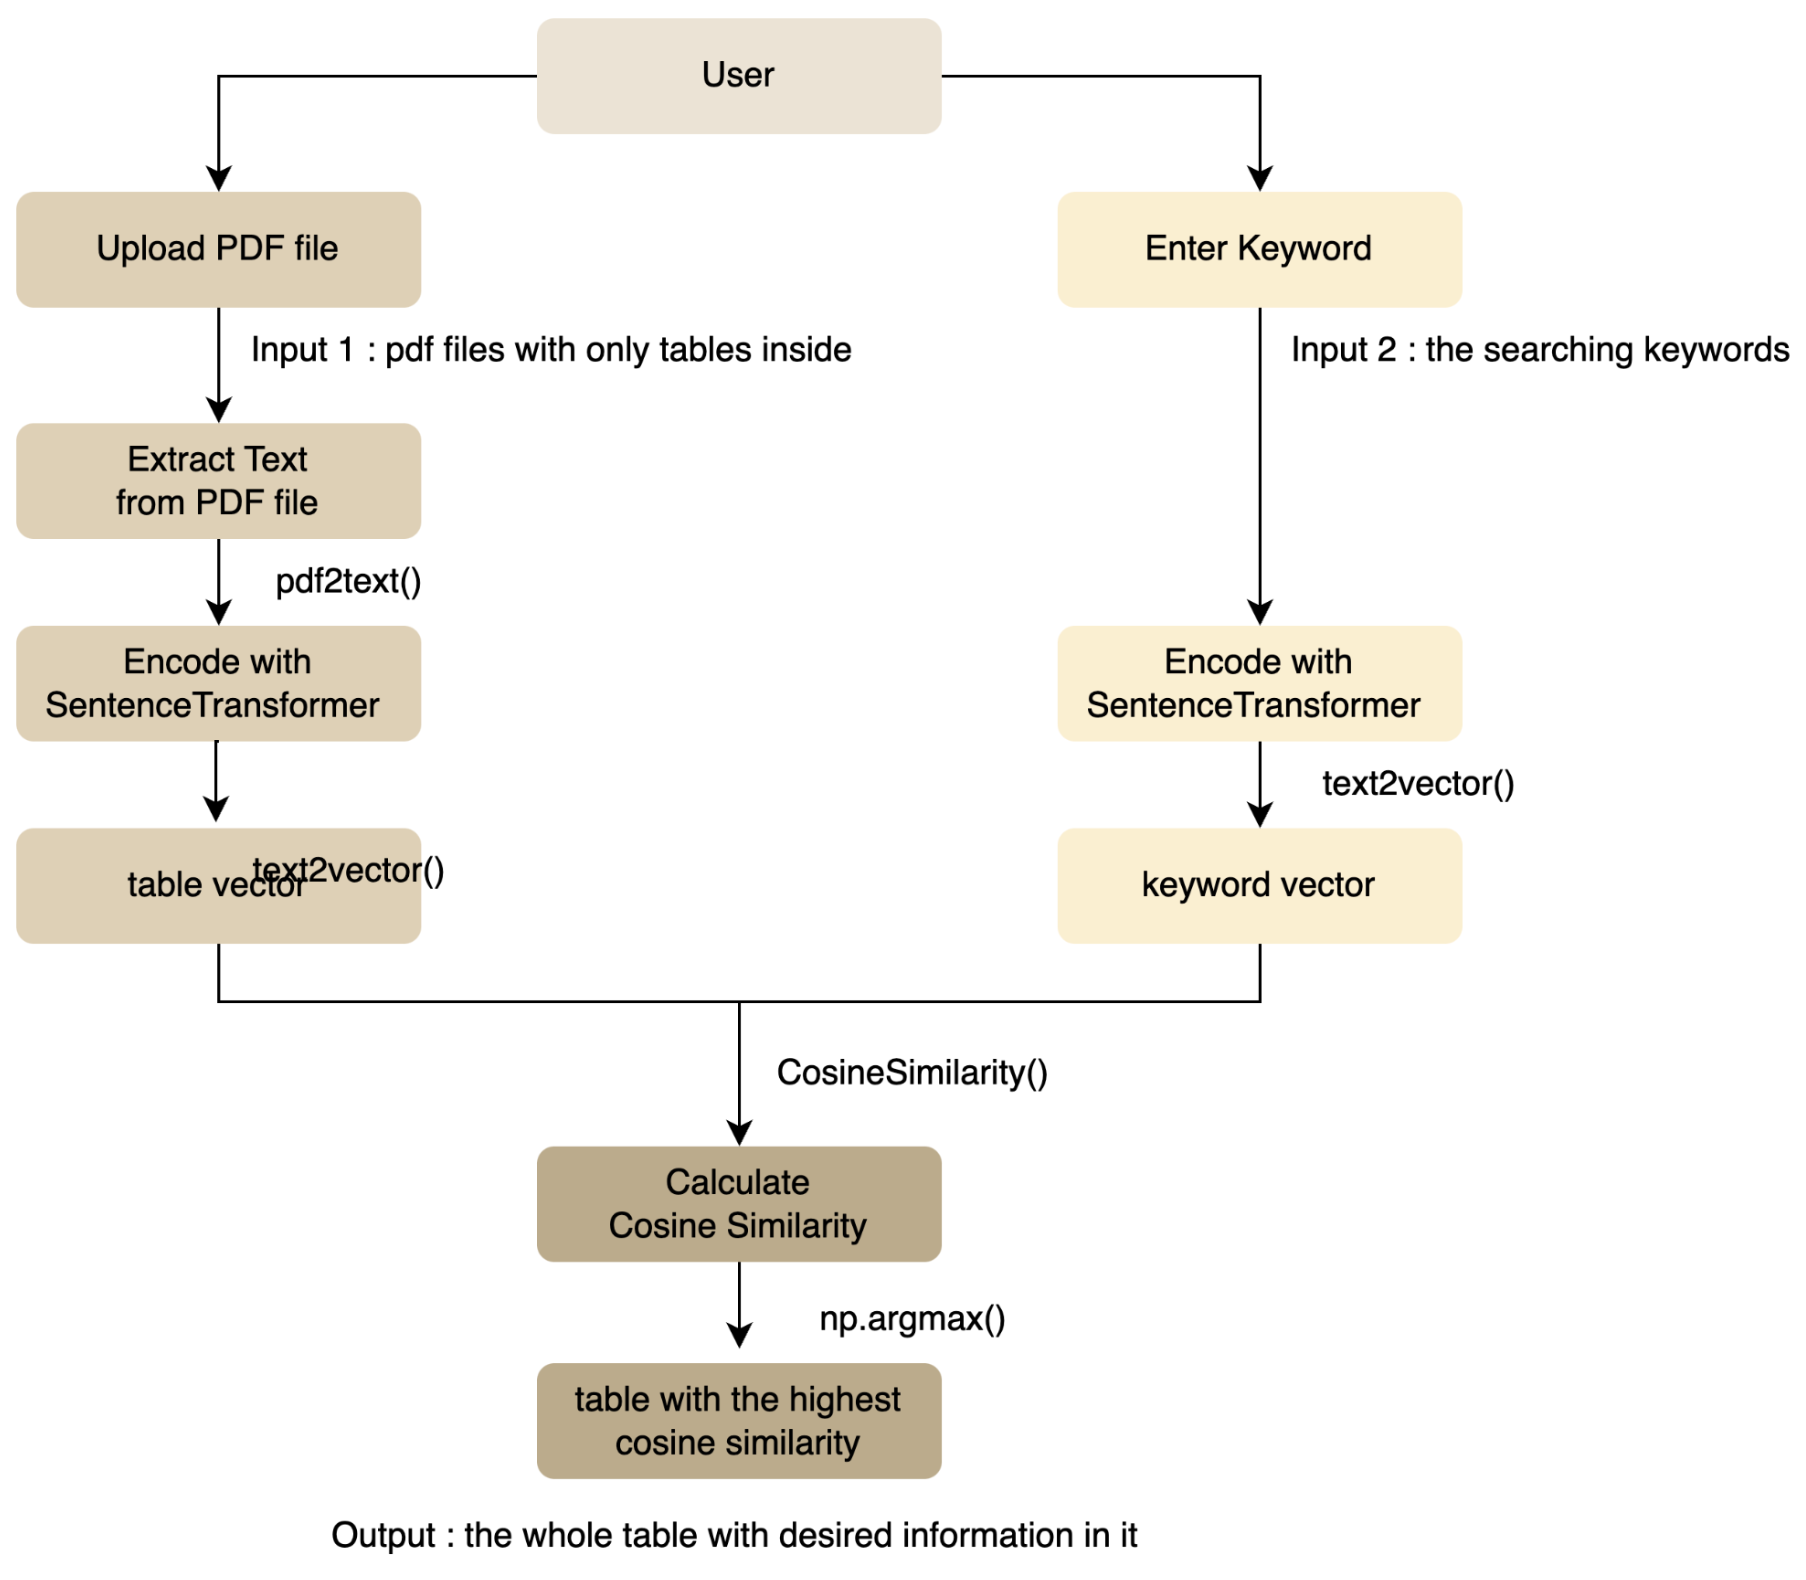
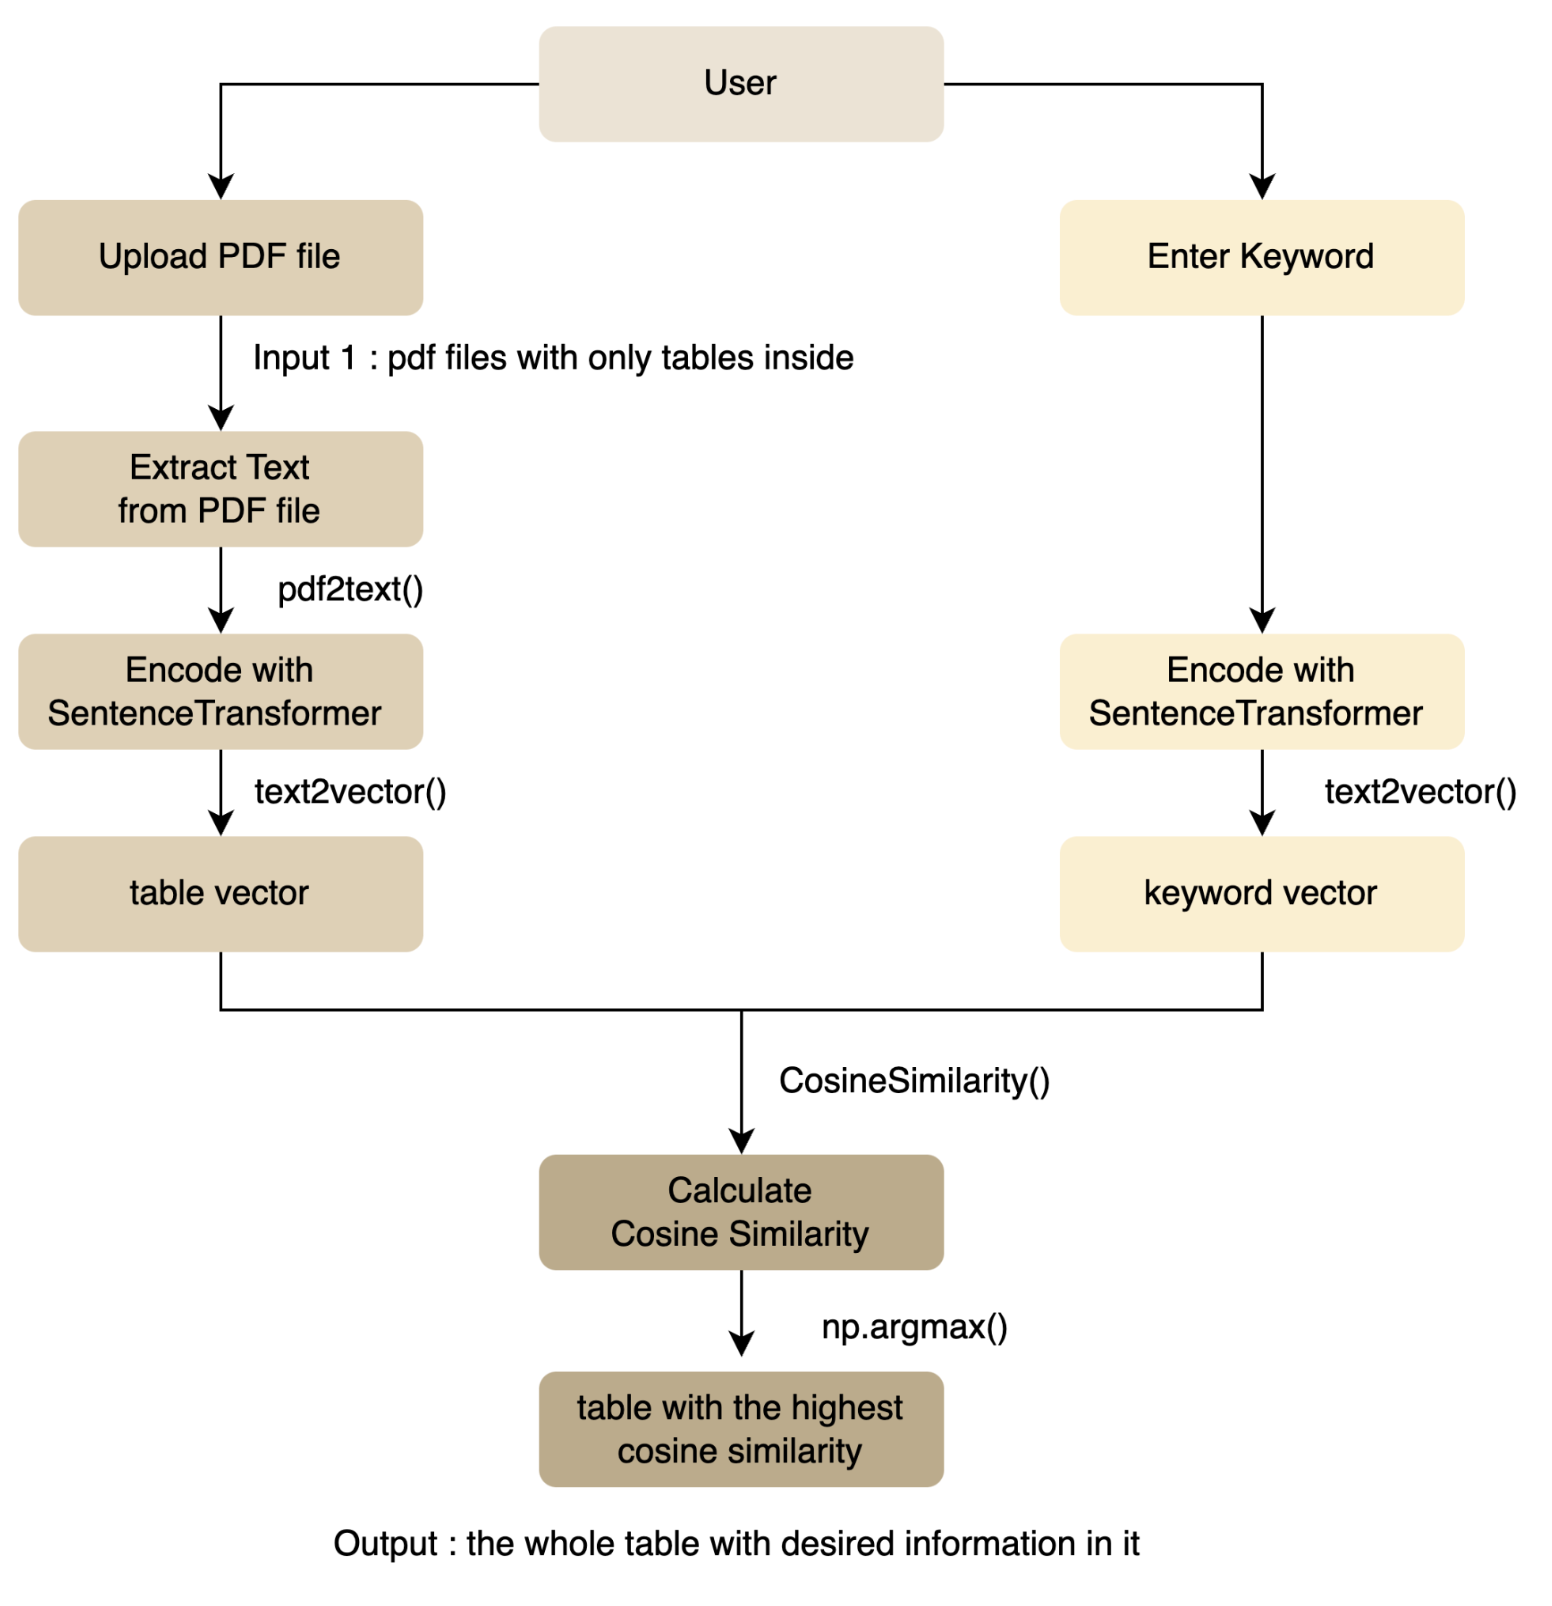
Update Flow Chart

diff --git a/README.md b/README.md
@@ -23,7 +23,7 @@ streamlit run main.py
 3. Press " Search " to get the table
 
 ## Flow Chart
-![flow diagram](https://i.postimg.cc/7Lknj4X1/HW3a-flowchart.png)
+![flow diagram](https://i.postimg.cc/htTFR9Wk/HW3a-flowchart.png)
 
 ## Demo
 ![Demo](https://i.postimg.cc/vZcBr2nW/HW3a-demo.png)
